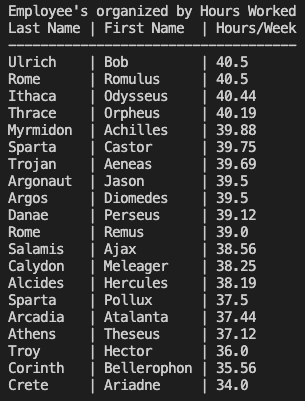
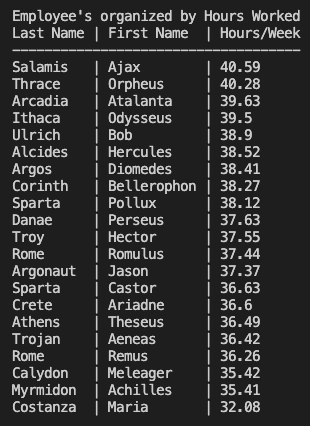
Updated Hours Report for a full Quarter.

Changed region(s): [[0.0295, 0.0, 0.9738, 0.9875]]

diff --git a/Milestone_34/generateHours.py b/Milestone_34/generateHours.py
@@ -1,0 +1,115 @@
+import random
+from datetime import date, timedelta
+import mysql.connector
+from mysql.connector import Error
+from dotenv import dotenv_values
+
+def getConn():
+    secrets = dotenv_values("setup.env")
+
+    config = {
+        "user": secrets["DB_USER"],
+        "password": secrets["DB_PASSWORD"],
+        "host": secrets["DB_HOST"],
+        "database": secrets["DB_NAME"],
+        "raise_on_warnings": True #not in .env file
+    }
+
+    try:
+        conn = mysql.connector.connect(**config)
+        if not conn.is_connected():
+            print("Could not connect to database.")
+            return None
+        
+        return conn
+        
+    except Error as e:
+        print("Error: ", e)
+        return None    
+
+def generateDateRange(startDate, endDate):
+    dates = []
+    current = startDate
+    while current <= endDate: # This While loop iterates through the dates from start to finish and one by one adds them to a list.
+        dates.append(current)
+        current += timedelta(days=1)
+    return dates
+
+
+def generateWeekdayHours():
+    roll = random.random()
+    if roll < 0.05: # Absent: None (means no punch)
+        return None
+    elif roll < 0.15: # Short day: 3–6 hours
+        return round(random.uniform(3, 6), 2) 
+    else: # Typical: 7.5–8.5 hours
+        return round(random.uniform(7.5, 8.5), 2)
+
+
+def generateSaturdayHours(): # Saturday logic:
+    if random.random() < 0.20: # 20% chance of overtime (5–8 hours)
+        return round(random.uniform(5, 8), 2)
+    return None # Otherwise: absent, meaning no punch
+
+
+def buildHoursEntries(employeeIDs, startDate, endDate):
+    allRows = []
+    allDates = generateDateRange(startDate, endDate)
+
+    # Nested for loop iterates through employees, then dates to generate psudo random punches for every employee for 6 months.
+    for empID in employeeIDs:
+        for d in allDates:
+            weekday = d.weekday() # Tells what day of the week it is using datetime (0-4 is Mon-Fri)
+
+            if weekday < 5: # Mon-Fri
+                hours = generateWeekdayHours()
+            elif weekday == 5: # Sat for Possible Overtime
+                hours = generateSaturdayHours()
+            else: # Sunday — no punches
+                hours = None
+
+            # Skip absences
+            if hours is None:
+                continue
+
+            allRows.append((empID, d.isoformat(), hours))   # Adds the time punch to list of ALL punches for all employees
+                                                            # isoformat() formats the date as "yyyy-mm-dd"
+
+    return allRows
+
+
+def main():
+    # List of EmployeeIDs
+    employeeIDs = [6, 7, 8, 9, 10, 11, 12, 13, 14, 15, 16, 17, 18, 19, 20, 21, 22, 23, 24, 25, 26]
+
+    # Creates date object in datetime for start and end date.
+    startDate = date(2025, 6, 1)
+    endDate = date(2025, 11, 30)
+
+    rows = buildHoursEntries(employeeIDs, startDate, endDate)
+
+    insertSQL = "INSERT INTO Hours (EmployeeID, DateWorked, HoursWorked) VALUES (%s, %s, %s)"
+
+    conn = getConn()
+    cur = conn.cursor()
+
+    try:
+        cur.execute("TRUNCATE TABLE Hours;") # Removes any data in the table
+
+        for empID, d, hrs in rows: # Populates the table with new data
+            cur.execute(insertSQL, (empID, d, hrs))
+        conn.commit()    # commits the changes if and only if all inserts worked.
+        print("Hours Generated Successfully")
+    
+    except Error as e:
+        print("Error: ", e)
+        conn.rollback() # Rollback the database if a SINGLE statement failed.
+    
+    finally:
+        cur.close()
+        conn.close()
+    
+
+
+if __name__ == "__main__":
+    main()

diff --git a/Milestone_34/hours_query.Robert.py b/Milestone_34/hours_query.Robert.py
@@ -6,6 +6,7 @@
 import mysql.connector
 from mysql.connector import Error
 from dotenv import dotenv_values
+from datetime import datetime, timedelta
 
 #using our .env file
 secrets = dotenv_values("setup.env")
@@ -18,21 +19,25 @@ config = {
     "raise_on_warnings": True #not in .env file
 }
 
-def fetchHoursWorked(conn):
+def fetchHoursWorked(conn, startDate, numWeeks):
+    if isinstance(startDate, str):
+        startDate = datetime.strptime(startDate, "%Y-%m-%d").date()
+    endDate = startDate + timedelta(weeks=numWeeks)
+
     cur = conn.cursor()
     cur.execute("""
                 SELECT 
                     e.EmployeeID,
                     e.FirstName,
                     e.LastName,
-                    SUM(h.HoursWorked) / 4.0 AS AvgHoursPerWeek
+                    SUM(h.HoursWorked) / %s AS AvgHoursPerWeek
                 FROM Employee e
                 LEFT JOIN Hours h
                     ON e.EmployeeID = h.EmployeeID
-                WHERE h.DateWorked BETWEEN '2025-11-03' AND '2025-11-28'
+                WHERE h.DateWorked BETWEEN %s AND %s
                 GROUP BY e.EmployeeID, e.FirstName, e.LastName
                 ORDER BY AvgHoursPerWeek DESC
-                """)
+                """, (numWeeks, startDate, endDate))
     byHour = cur.fetchall()
     
     cur.execute("""
@@ -40,14 +45,14 @@ def fetchHoursWorked(conn):
                     e.EmployeeID,
                     e.FirstName,
                     e.LastName,
-                    SUM(h.HoursWorked) / 4.0 AS AvgHoursPerWeek
+                    SUM(h.HoursWorked) / %s AS AvgHoursPerWeek
                 FROM Employee e
                 LEFT JOIN Hours h
                     ON e.EmployeeID = h.EmployeeID
-                WHERE h.DateWorked BETWEEN '2025-11-03' AND '2025-11-28'
+                WHERE h.DateWorked BETWEEN %s AND %s
                 GROUP BY e.EmployeeID, e.FirstName, e.LastName
                 ORDER BY e.LastName, e.FirstName
-                """)
+                """, (numWeeks, startDate, endDate))
     byName =cur.fetchall()
     cur.close()
     print(byHour) # for testing the output
@@ -95,7 +100,7 @@ def main():
             print("Could not connect to database.")
             return
 
-        byHour, byName = fetchHoursWorked(conn)
+        byHour, byName = fetchHoursWorked(conn, "2025-09-01", 13)
         byHour = formatData(byHour)
         byName = formatData(byName)
         print(f"\nEmployee's organized by Hours Worked")
